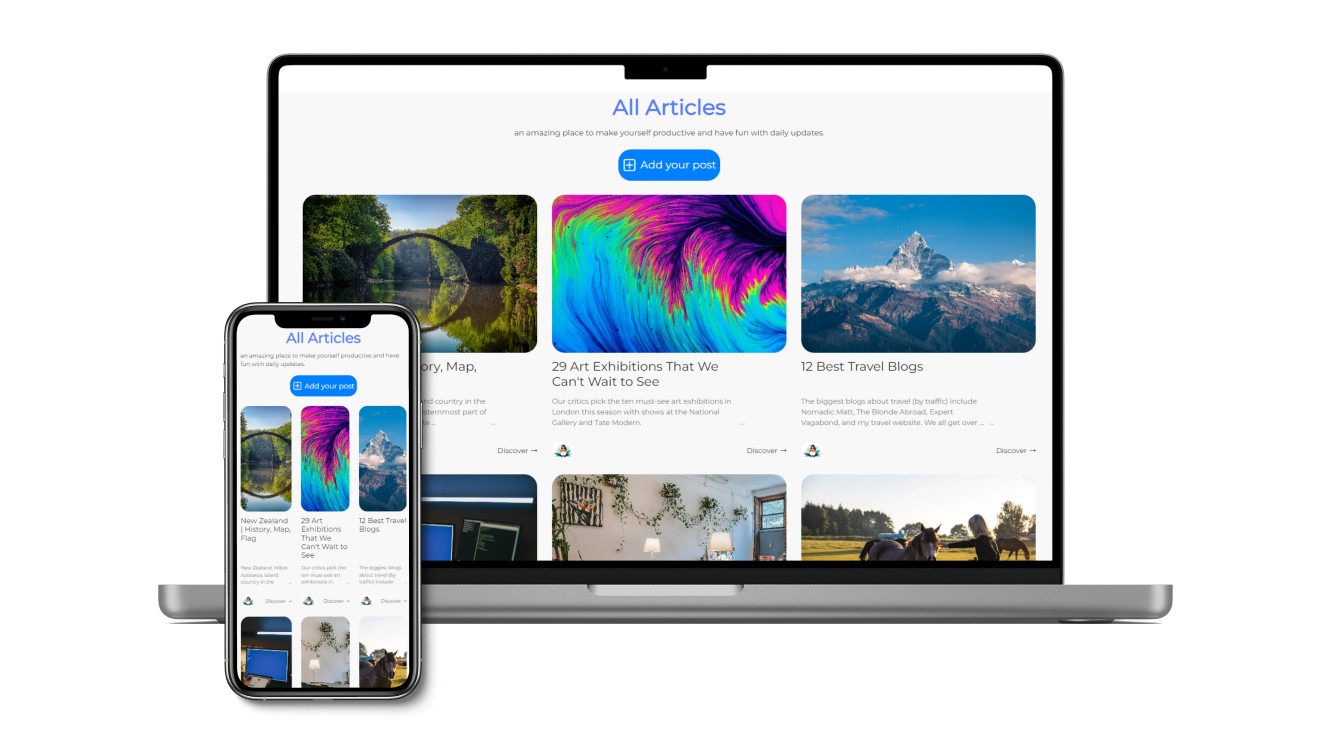
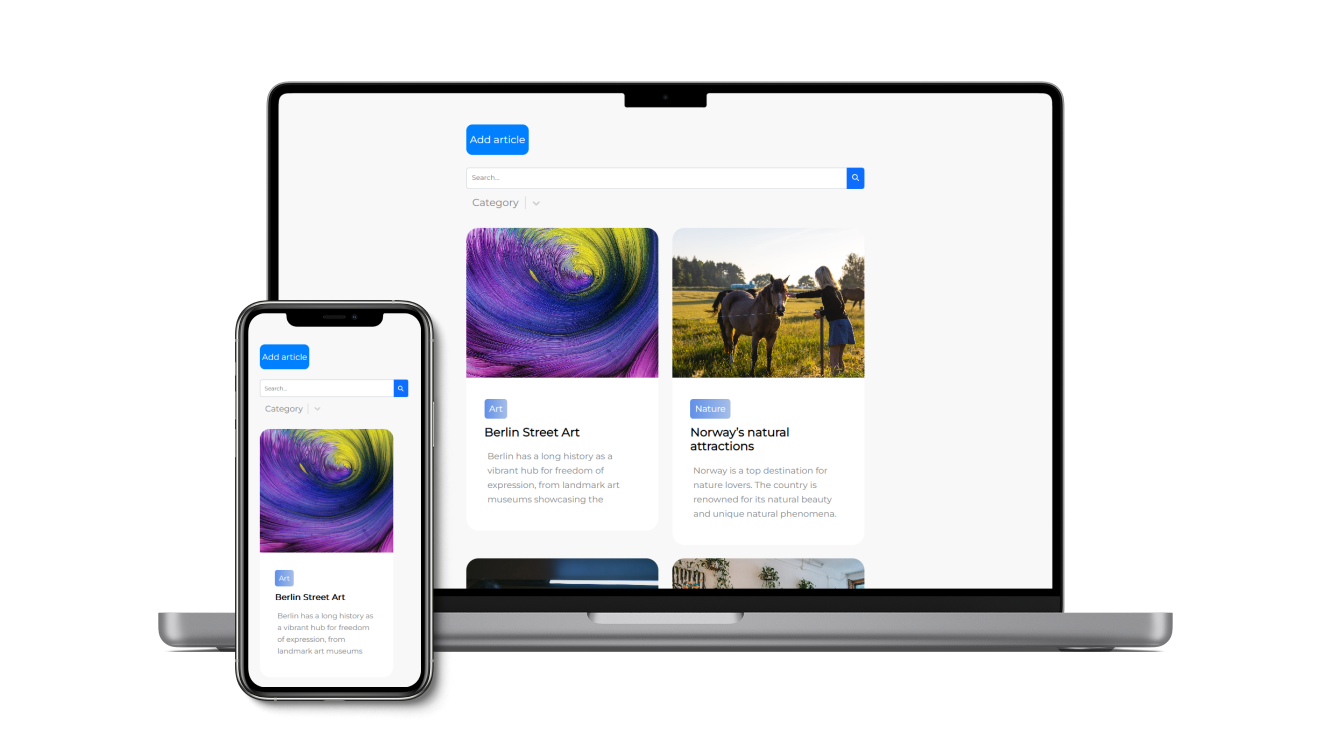
search refactor

diff --git a/src/pages/Blog/Blog.tsx b/src/pages/Blog/Blog.tsx
@@ -1,12 +1,15 @@
 import { AddPostCollapse } from './AddPostCollapse'
-import { Button, FormControl, InputGroup } from 'react-bootstrap'
-import { FontAwesomeIcon } from '@fortawesome/react-fontawesome'
+import { FormControl, InputGroup } from 'react-bootstrap'
 import { FormGroup } from 'reactstrap'
 import { PostCard } from './PostCard'
 import { ToastContainer, toast } from 'react-toastify'
-import { convertToSlug, useLocalStorage } from '../../helpers/functions'
+import {
+  convertToSlug,
+  customStylesSelector,
+  letterNumberCheck,
+  useLocalStorage,
+} from '../../helpers/functions'
 import { coverArr, initialBlogData, options, options2 } from '../../helpers/data'
-import { faSearch } from '@fortawesome/free-solid-svg-icons'
 import { genericHookContextBuilder } from '../../helpers/genericHookContextBuilder'
 import { theme } from '../../helpers/theme'
 import { v1 } from 'uuid'
@@ -31,13 +34,13 @@ const useLogicState = () => {
   const [category, setCategory] = useState('' as string)
   const [error, setError] = useState(null as string | null)
   const [filterCategory, setFilterCategory] = useState('' as string)
-  const [searchInput, setSearchInput] = useState('' as string)
+  const [searchInput, setSearchInput] = useState('')
   const [filter, setFilter] = useState({ input: '', category: '' })
-  // console.log('input', filter.input)
 
-  const notify = () => {
+  const notification = () => {
     toast('🙌 Upload successfully')
   }
+
   const slug = convertToSlug(title)
   const cover2 = coverArr[category]
 
@@ -63,12 +66,10 @@ const useLogicState = () => {
     resetStates()
   }
 
-  const letterNumber = /^[0-9a-zA-Z]+$/
-
   const inputCheck = () => {
     if (!title.trim()) {
       setError('please enter the title')
-    } else if (!letterNumber.test(title)) {
+    } else if (!letterNumberCheck.test(title)) {
       setError('please enter the title in English')
     } else if (formData.find(el => el.url === title.trim())) {
       setError('a similar title already exists, please type another')
@@ -77,26 +78,21 @@ const useLogicState = () => {
     } else if (!postText.trim()) {
       setError('the article was not entered ')
     } else {
-      notify()
+      notification()
       setData()
       setError(null)
     }
   }
 
-  // ===>>>>
   const filteredList = () => {
-    // console.log('category', filter.category)
-    // console.log('input', filter.input)
-    // console.log('test', filter.category === '' && filter.input === '')
-    // console.log('DATA', formData)
     return filter.category === '' && filter.input === ''
       ? formData
       : filter.input === ''
-      ? formData.filter(article => article.category === filter.category)
-      : formData.filter(article => article.title === filter.input)
+      ? formData.filter(article =>
+          filter.category === 'all' ? article : article.category === filter.category
+        )
+      : formData.filter(article => article.title.toLowerCase().includes(filter.input.toLowerCase()))
   }
-
-  // console.log(filteredList())
 
   return {
     formData,
@@ -137,51 +133,30 @@ export const BlogUseContext1 = () => {
 export const Blog = () => {
   const logic = useContext(BlogContext)
 
-  const customStyles = {
-    control: () => ({
-      border: 'none',
-      display: 'flex',
-      color: 'black',
-    }),
-    option: () => ({
-      color: 'black',
-      fontSize: theme.fonts.xs,
-      padding: '4px',
-      paddingLeft: '2%',
-      '&:hover': {
-        background: theme.colors.lightBlue,
-      },
-    }),
-  }
-  // const [filter, setFilter] = useState({ input: '', catgory: '' })
-
   return (
     <Div_Wrapper>
       <Container>
         <Header>
           <AddPostCollapse />
           <MyInputGroup>
-            <FormControl
-              placeholder="Recipient's username"
+            <MyFormControl
+              placeholder='Search by title'
               aria-label="Recipient's username"
               aria-describedby='basic-addon2'
-              onChange={e => {
+              onChange={(e: { currentTarget: { value: any } }) => {
                 logic.setFilter({ ...logic.filter, input: e.currentTarget.value })
               }}
             />
-            <Button onClick={() => logic.filteredList()}>
-              <FontAwesomeIcon icon={faSearch} />
-            </Button>
           </MyInputGroup>
           <MyFormGroup>
             <Select
-              styles={customStyles}
+              styles={customStylesSelector}
               placeholder={'Category'}
-              options={options}
-              value={options.filter(option => option.value === logic.category)}
+              options={options2}
+              value={options2.filter(option => option.value === logic.filter.category)}
               onChange={e => {
                 if (e === null) return
-                logic.setFilter({ ...logic.filter, category: e.value })
+                logic.setFilter({ input: '', category: e.value })
               }}
             />
           </MyFormGroup>
@@ -196,7 +171,7 @@ export const Blog = () => {
       </Container>
       <MyToastContainer
         position='top-center'
-        autoClose={500}
+        autoClose={1000}
         hideProgressBar
         newestOnTop={false}
         closeOnClick
@@ -212,6 +187,10 @@ export const Blog = () => {
 
 const Header = styled.div`
   width: 80%;
+  ${theme.breakpoint.phone} {
+    grid-template-columns: repeat(1, 1fr);
+    width: 90%;
+  }
 `
 
 const Content = styled.div`
@@ -243,30 +222,7 @@ const GridContainer = styled.div`
   gap: 2rem;
   ${theme.breakpoint.phone} {
     grid-template-columns: repeat(1, 1fr);
-    width: 90%;
   }
-`
-const Button_MyButton = styled.button`
-  font-size: 1.5rem;
-  border-radius: 10px;
-  border: none;
-  color: white;
-  background-color: ${theme.background.lightBlue};
-  height: 4.5rem;
-  width: fit-content;
-  display: flex;
-  justify-content: center;
-  align-items: center;
-  gap: 0.5rem;
-  &:hover {
-    background: ${theme.colors.blue2};
-  }
-`
-
-const H1 = styled.h1`
-  font-size: ${theme.fonts.medium};
-  color: ${theme.colors.blue};
-  font-weight: bold;
 `
 
 const MyToastContainer = styled(ToastContainer)`
@@ -284,10 +240,16 @@ const MyToastContainer = styled(ToastContainer)`
 
 const MyInputGroup = styled(InputGroup)`
   padding-top: 10px;
-  height: 4.5rem;
+  height: 5rem;
   padding-bottom: 5px;
+  font-size: ${theme.fonts.xs};
 `
 const MyFormGroup = styled(FormGroup)`
   display: flex;
   flex-direction: row;
+  font-size: ${theme.fonts.xs};
+`
+
+const MyFormControl = styled(FormControl)`
+  font-size: ${theme.fonts.xs};
 `

diff --git a/src/helpers/functions.ts b/src/helpers/functions.ts
@@ -1,3 +1,4 @@
+import { theme } from './theme'
 import { useEffect, useState } from 'react'
 
 export const useLocalStorage = <T>(key: string, defaultValue: T) => {
@@ -148,3 +149,22 @@ export const getDate = () => {
 }
 
 export const sleep = (ms: number) => new Promise(r => setTimeout(r, ms))
+
+export const letterNumberCheck = /^[0-9a-zA-Z \-'_"]+$/
+
+export const customStylesSelector = {
+  control: () => ({
+    border: 'none',
+    display: 'flex',
+    color: 'gray',
+  }),
+  option: () => ({
+    color: 'black',
+    fontSize: theme.fonts.xs,
+    padding: '4px',
+    paddingLeft: '2%',
+    '&:hover': {
+      background: theme.colors.lightBlue,
+    },
+  }),
+}

diff --git a/src/pages/Blog/AddPostCollapse.tsx b/src/pages/Blog/AddPostCollapse.tsx
@@ -97,23 +97,8 @@ export const AddPostCollapse = () => {
   )
 }
 
-const MessageError = styled.div`
-  height: 40vh;
-  display: flex;
-  align-items: center;
-  justify-content: center;
-`
-const Loading = styled.span`
-  font-size: ${theme.fonts.small};
-  animation-name: ${wave};
-  animation-duration: 2.5s;
-  animation-iteration-count: infinite;
-  transform-origin: 70% 70%;
-  display: inline-block;
-`
-
 const Button_MyButton = styled.button`
-  font-size: 1.5rem;
+  font-size: ${theme.fonts.small};
   border-radius: 10px;
   border: none;
   color: white;

diff --git a/src/helpers/data.ts b/src/helpers/data.ts
@@ -58,6 +58,7 @@ export const initialBlogData = [
 ]
 
 export const options2 = [
+  { value: 'all', label: 'all' },
   { value: 'travel', label: 'travel' },
   { value: 'nature', label: 'nature' },
   { value: 'art', label: 'art' },
